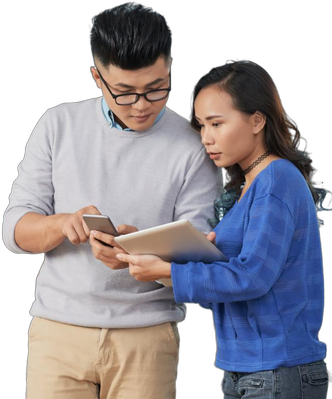
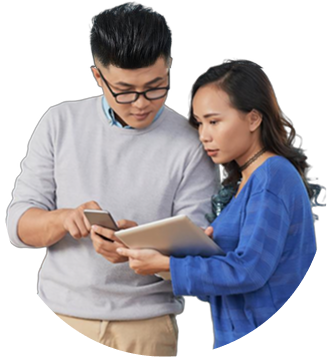
updates

diff --git a/styles.css b/styles.css
@@ -195,15 +195,15 @@ img { display: block; max-width: 100%; }
   top: -8.33%;
 }
 
-/* Head shown above + into circle — 28% ensures full faces visible,
-   transition is seamless by Figma geometry */
+/* Head shown above circle — gradient mask fades inside circle to avoid hard cut line */
 .hero__people-head {
   position: absolute;
   left: 21.54%;
   top: 1.66%;
-  width: 56.8%;
+  width: 56.75%;
   height: auto;
-  clip-path: inset(0 0 72% 0);
+  -webkit-mask-image: linear-gradient(to bottom, black 0%, black 14%, transparent 22%);
+  mask-image: linear-gradient(to bottom, black 0%, black 14%, transparent 22%);
   z-index: 3;
   pointer-events: none;
 }